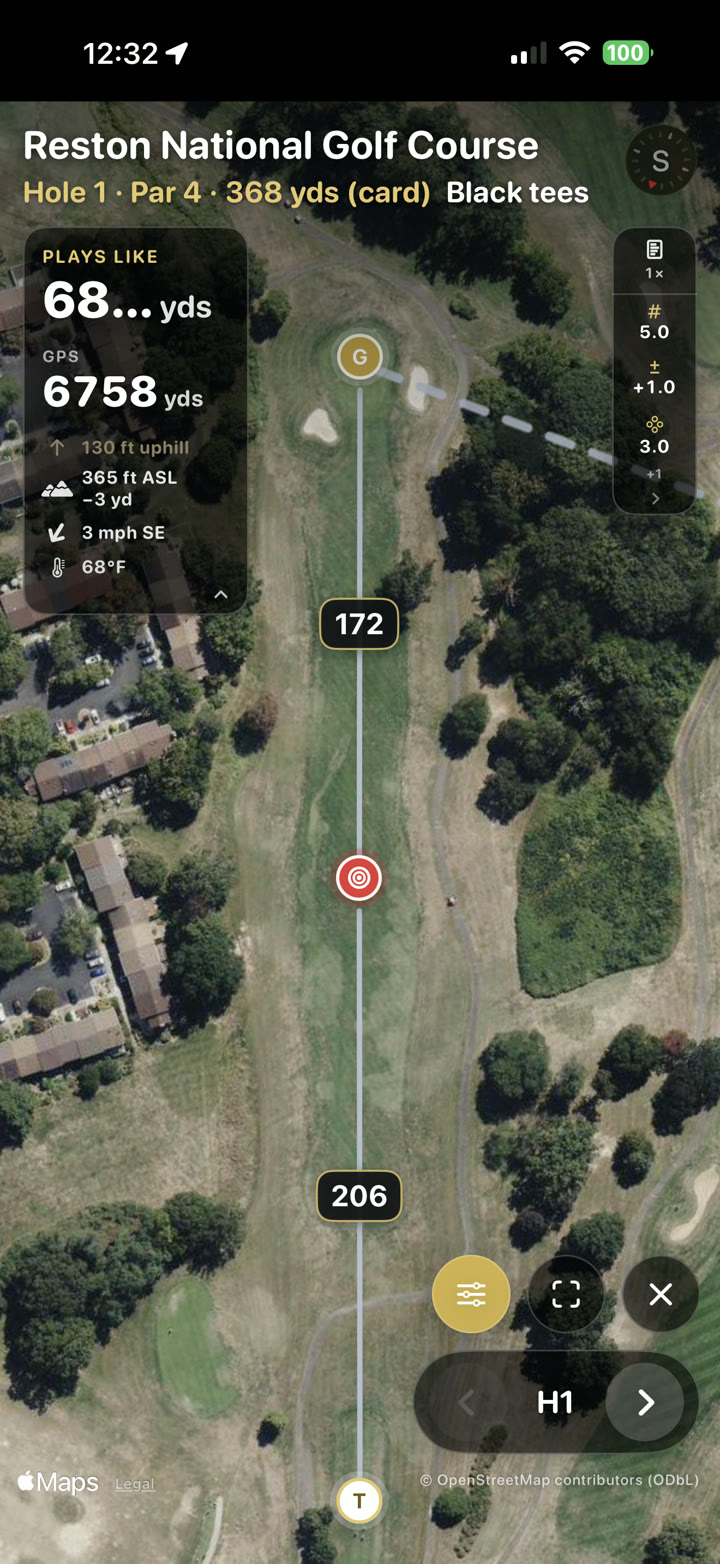
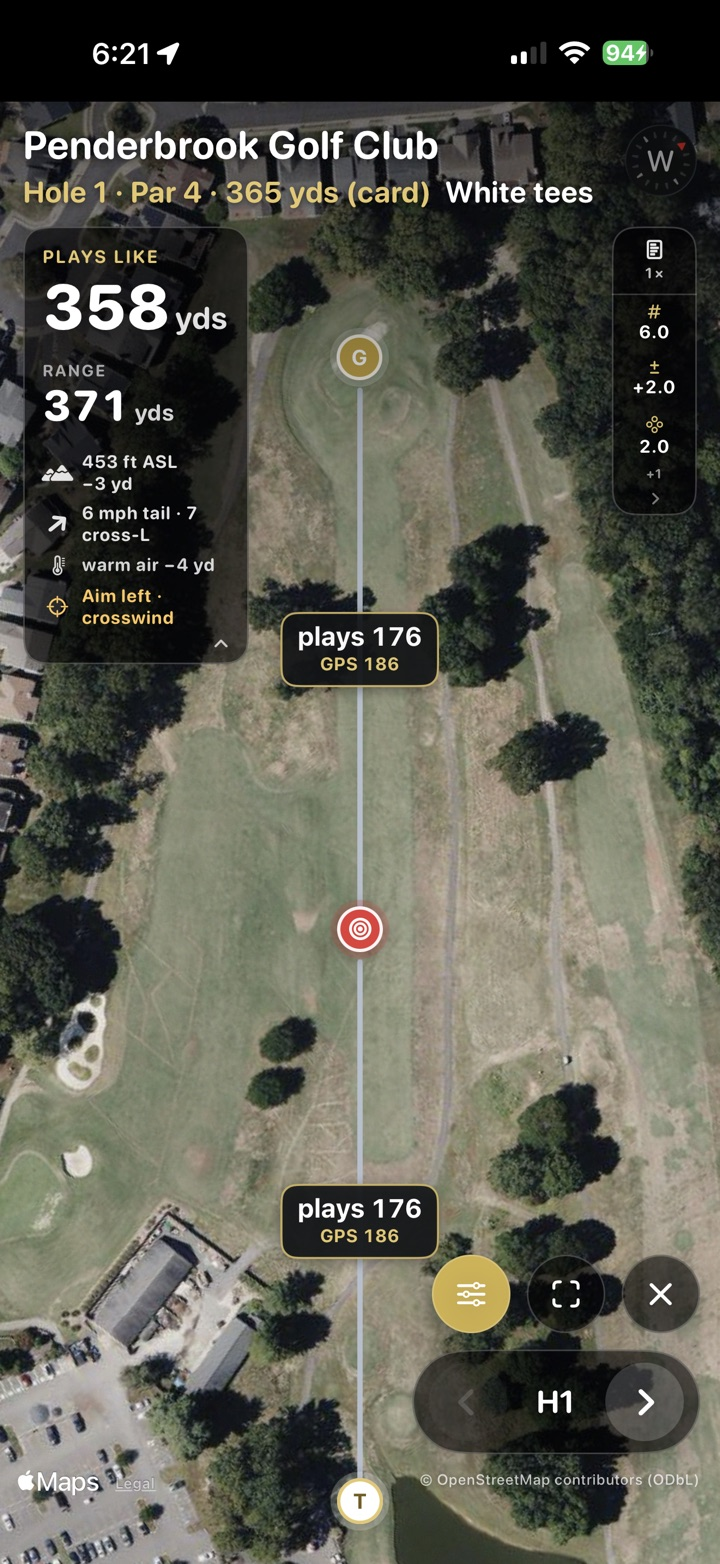
Replace the flyover screenshot with Flyover_best (Penderbrook).
Resized to 720x1564 so it fills the existing iPhone bezel the same way
as the other shots.

diff --git a/index.html b/index.html
@@ -65,7 +65,7 @@
           <img src="assets/ui-home.jpg" alt="EagleEye home" width="720" height="1564" />
         </div>
         <div class="device front">
-          <img src="assets/ui-flyover.jpg" alt="EagleEye satellite flyover of a golf hole" width="720" height="1564" />
+          <img src="assets/ui-flyover.jpg?v=penderbrook" alt="EagleEye satellite flyover of a golf hole" width="720" height="1564" />
         </div>
       </div>
     </section>
@@ -112,7 +112,7 @@
         </figure>
         <figure>
           <div class="device">
-            <img src="assets/ui-flyover.jpg" alt="EagleEye hole flyover" width="720" height="1564" />
+            <img src="assets/ui-flyover.jpg?v=penderbrook" alt="EagleEye hole flyover" width="720" height="1564" />
           </div>
           <figcaption>Flyover of the hole you’re on</figcaption>
         </figure>
